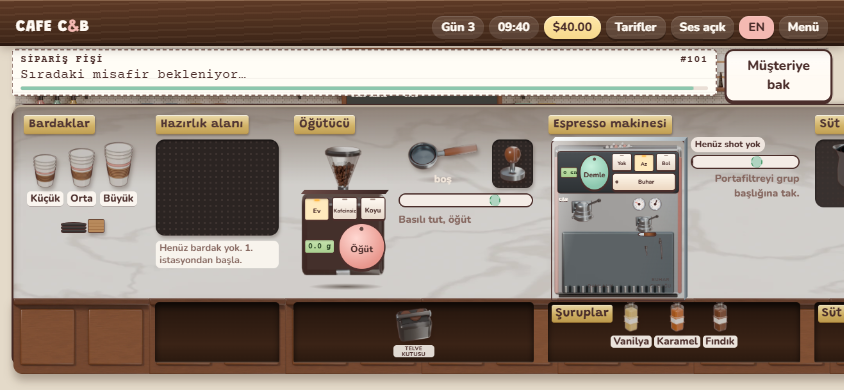
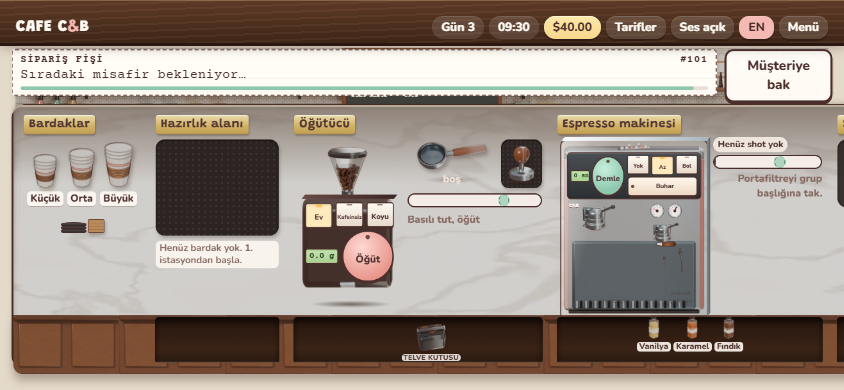
Phone: thinner under-counter row (74px), bigger machine and grinder (not pushed)

Changed region(s): [[0.0, 0.2769, 1.0, 0.9538]]

diff --git a/css/stage.css b/css/stage.css
@@ -163,7 +163,7 @@ body *, body *::before, body *::after { -webkit-user-select: none; user-select: 
 .cam .counter {
   align-self: flex-start; width: max-content; column-gap: 16px; will-change: translate;
   grid-template-columns: 190px 200px auto auto 310px 360px;
-  grid-template-rows: minmax(0, 1fr) 100px;
+  grid-template-rows: minmax(0, 1fr) 74px;
   grid-template-areas:
     "cups prep grinder machine milk serve"
     "ucups uprep ugrinder umachine umilk userve";
@@ -172,14 +172,14 @@ body *, body *::before, body *::after { -webkit-user-select: none; user-select: 
   grid-template-columns: auto 210px; grid-template-rows: auto auto auto 1fr;
   grid-template-areas: "h h" "mat tamp" "mat meter" "mat msg";
 }
-.cam .z-grinder > .barmat { width: 232px; --k: .66; }
+.cam .z-grinder > .barmat { width: 232px; --k: .72; }
 .cam .z-grinder > .tampstation { grid-template-columns: minmax(0, 1fr) auto; }
 .cam .z-machine {
   grid-template-columns: auto 170px; grid-template-rows: auto auto auto 1fr;
   grid-template-areas: "h h" "mat shots" "mat meter" "mat msg";
 }
 .cam .z-machine > .shotlist { justify-content: flex-start; align-self: start; flex-wrap: wrap; }
-.cam .z-machine > .barmat { width: 435px; --k: .5; }
+.cam .z-machine > .barmat { width: 435px; --k: .55; }
 /* the customer view is narrower on the close-up stage: a wider bubble (the ticket and the gap give way) and a little
    smaller words, so a long order still leaves the go-to-bench button on screen */
 .cam .scene .talk { margin-left: max(150px, 30%); }
@@ -218,3 +218,12 @@ body *, body *::before, body *::after { -webkit-user-select: none; user-select: 
 @media (prefers-reduced-motion: reduce) {
   .rotate-ov .phone { animation: none; transform: rotate(-90deg); }
 }
+/* phones: a thin row of cubbies under the bar, so the bar top (the machine above all) keeps the height */
+.cam .ucell { margin-top: 3px; padding-bottom: 6px; }
+.cam .ucell .zone h3 { display: none; }
+.cam .ucell .bottle-obj.syrup .spr { height: 50px; } .cam .ucell .bottle-obj.shaker .spr, .cam .ucell .bottle-obj.shaker[data-drag="top:whip"] .spr { height: 42px; }
+.cam .ucell .bottle-obj.milk .spr { height: 40px; }
+.cam .ucell .bottle-obj { min-width: 40px; } .cam .ucell .bottle-obj .nm { font-size: 13px; }
+.cam .ucell .knockbox, .cam .ucell .knockbox .spr { width: 52px; } .cam .ucell .knockbox small { font-size: 11px; white-space: nowrap; padding: 0 3px; }
+.cam .ucell .bin { scale: .62; } .cam .ucell .extras .icebucket .spr { width: 44px; } .cam .ucell .extras .cocoatin .spr { width: 30px; }
+.cam .ucell .bottles { margin-top: 0; }

diff --git a/sw.js b/sw.js
@@ -5,7 +5,7 @@
 const VERSION = 'cafe-cb-51';
 const CORE = [
   './', 'index.html', 'manifest.webmanifest', 'style.css?v=41',
-  'css/scene.css?v=41', 'css/fx.css?v=41', 'css/views.css?v=41', 'css/bar.css?v=52', 'css/theme.css?v=41', 'css/helper.css?v=41', 'css/stage.css?v=49', 'css/intro.css?v=41',
+  'css/scene.css?v=41', 'css/fx.css?v=41', 'css/views.css?v=41', 'css/bar.css?v=52', 'css/theme.css?v=41', 'css/helper.css?v=41', 'css/stage.css?v=53', 'css/intro.css?v=41',
   'js/intro.js?v=41', 'js/util.js?v=41', 'js/economy.js?v=41', 'js/i18n.js?v=41', 'js/audio.js?v=41', 'js/recipe.js?v=41', 'js/render.js?v=41', 'js/scene.js?v=41', 'js/fx.js?v=41',
   'js/station.js?v=41', 'js/camera.js?v=42', 'js/helper.js?v=41', 'js/tutorial.js?v=41', 'js/main.js?v=41',
   'assets/favicon-64.png', 'assets/icon-192.png', 'assets/icon-512.png', 'assets/icon-512-any.png', 'assets/apple-touch-icon.png',

diff --git a/index.html b/index.html
@@ -24,7 +24,7 @@
 <link rel="stylesheet" href="css/bar.css?v=52">
 <link rel="stylesheet" href="css/theme.css?v=41">
 <link rel="stylesheet" href="css/helper.css?v=41">
-<link rel="stylesheet" href="css/stage.css?v=49">
+<link rel="stylesheet" href="css/stage.css?v=53">
 <link rel="stylesheet" href="css/intro.css?v=41">
 </head>
 <body>
